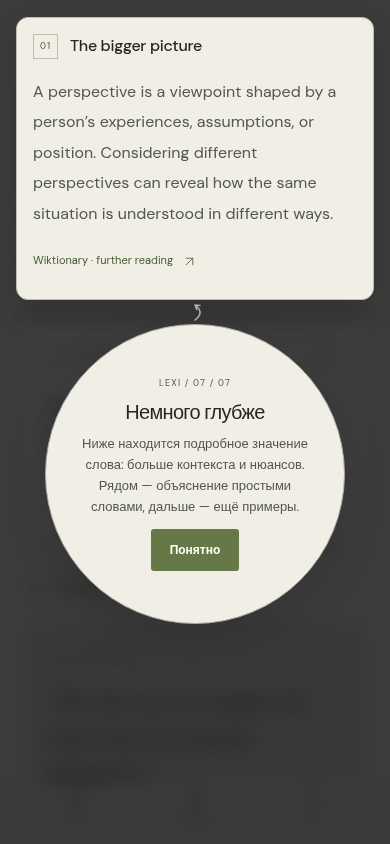
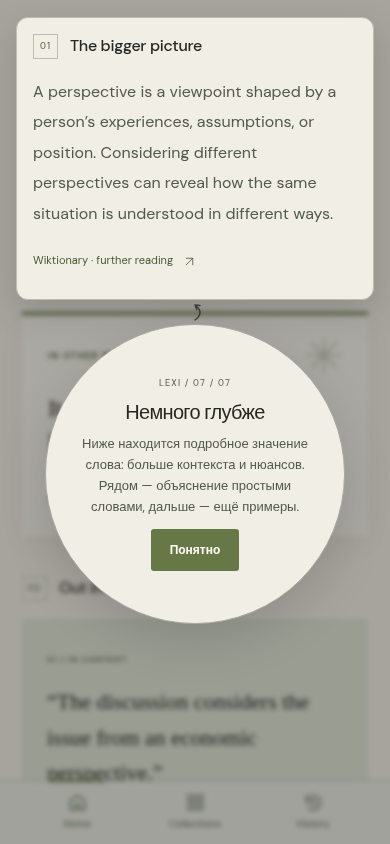
Ease the tutorial backdrop after the daily word

diff --git a/static/css/onboarding-guide.css b/static/css/onboarding-guide.css
@@ -48,10 +48,13 @@
 .guide-settings-target{z-index:2;background:var(--surface);color:var(--text);border:1px solid var(--text);border-radius:50%;box-shadow:0 0 0 8px color-mix(in srgb,var(--bg) 75%,transparent)}
 .guide-settings-target:hover{transform:none;background:var(--panel)}
 [data-theme=studio] .guide-circle{background:var(--paper)}
-.settings-guide-dialog.is-reading-guide::backdrop{backdrop-filter:blur(10px)}
+.settings-guide-dialog.is-reading-guide::backdrop{background:#07080b4d;backdrop-filter:blur(2.5px);transition:backdrop-filter 900ms cubic-bezier(.42,0,.58,1),background-color 900ms cubic-bezier(.42,0,.58,1)}
 .is-reading-guide .settings-guide-circle{z-index:3;gap:10px;padding:26px}
 .is-reading-guide .guide-settings-arrow{z-index:2;pointer-events:none}
 .is-reading-guide .guide-settings-arrow path{stroke:#eef0ec;opacity:.75;filter:none}
+[data-theme=studio] .is-reading-guide .guide-settings-arrow path{stroke:var(--text)}
+.reduce-motion .settings-guide-dialog.is-reading-guide::backdrop{transition:none}
+@media(prefers-reduced-motion:reduce){.settings-guide-dialog.is-reading-guide::backdrop{transition:none}}
 .guide-content-spotlight{position:fixed;z-index:2;padding:16px;border:1px solid var(--border);border-radius:12px;background:var(--surface);color:var(--text);box-shadow:0 12px 36px #0002;overflow:auto;overscroll-behavior:contain;scrollbar-width:thin}
 .guide-content-spotlight>:first-child{margin:0;opacity:1;transform:none;animation:none;transition:none}
 .guide-content-spotlight .synonym{display:inline-flex;align-items:center;gap:12px}

diff --git a/static/sw.js b/static/sw.js
@@ -1,5 +1,5 @@
 // Bump this version after changing the app shell or vocabulary schema.
-const CACHE = 'lexi-shell-v21';
+const CACHE = 'lexi-shell-v22';
 const SHELL = [
   '/', '/manifest.webmanifest', '/static/css/style.css', '/static/css/experience.css', '/static/css/account.css', '/static/css/entry.css', '/static/js/app.js',
   '/static/js/theme-init.js', '/static/js/selection.js', '/static/js/storage.js',

diff --git a/docs/VALIDATION.md b/docs/VALIDATION.md
@@ -13,6 +13,7 @@
 - **11 проверок продолжения «Слово дня» (22 октября):** восстановление непосредственно на новом шаге; тот же язык и слово на другом устройстве; завершение на другом устройстве сохраняется; раннее нажатие «Далее» во время появления подсказки настроек не меняет мгновенно координаты, размер и непрозрачность круга, создаётся один круг и одна подсветка; перевёрнутая карточка не раскрывает ответ, явное двойное нажатие открывает слово и продолжает объяснение; круг помещается на 320 × 568 px; потеря сессии удаляет подсветку и закрывает диалог; ошибок JavaScript нет. Основные 161 проверка также подтверждают затухание у настроек, появление круга под словом, свечение и размытие вокруг, размеры 320/390/768/1440 px, офлайн-перезагрузку на шаге слова без повторной истории, переход через настоящую шестерёнку и очистку подсветки после завершения. Метаданные `word` проверены в 53 unit/API-тестах, включая сохранение при записи старого клиента и запрет шага без языка/завершённого выбора. Повторены 68 базовых сценариев и все 29 сценариев гостя.
 - **Приглушённая подсветка слова (22 октября):** насыщенный зелёный ореол заменён одним слабым свечением и нейтральным светлым текстом. В Chromium повторно просмотрены переход от настроек к слову и снимки Studio на 1440 × 1000 и 390 × 844 px; слово читается, круг остаётся под ним, ошибок JavaScript при переходе нет. Снимки и анимационный пример обновлены; полные наборы тестов для этой правки CSS повторно не запускались.
 - **130 браузерных проверок объяснения слова (22 октября):** краткое значение → синонимы → пример → настоящая кнопка сохранения → настоящий Saved → Home и плавная прокрутка к полному значению. Русский/Studio, казахский/Noir и английский/Experimental; на каждом шаге проверены 320/390/768/1440 px, круглая форма, отсутствие наложений и переполнения. Тексты выделений совпадают с текущим словом. Проверены сохранение ровно один раз при повторных нажатиях, видимая нейтральная цель полёта закладки, уже сохранённое слово, восстановление Saved без повторной демонстрации, офлайн-перезагрузка, другое устройство, отсутствие дублей истории, завершение без повторного запуска, скрытая карточка и удаление подсветки при истечении сессии. При reduced motion полёт и прокрутка отключены; длинная дефиниция на 320 × 568 px прокручивается с клавиатуры. Дополнительно проверен фокус на заголовке полного объяснения после закрытия. Выполнены 36 axe-проверок шести новых шагов на трёх языках/темах и 320/1440 px — автоматических нарушений WCAG 2 A/AA и 2.1 AA не обнаружено. Повторены 53 unit/API-теста с валидацией новых шагов, 161 проверка первого инструктажа, 12 проверок границ шага слова (включая перерисовку во время затухания), 69 базовых сценариев, 71 сценарий аккаунтов и 29 сценариев гостя. Примеры анимации и снимки компьютера/телефона обновлены.
+- **Мягкий фон после слова дня (22 октября):** размытие ослабевает с 10 до 2,5 px, затемнение — с 77% до 30%, переход занимает 900 мс. Покадровая проверка Chromium подтвердила постепенное уменьшение без скачка (17 промежуточных кадров). Просмотрены три темы на 1440 × 1000 и 390 × 844 px: контекст страницы виден, блок и круг остаются непрозрачными, стрелка Studio читается на светлом фоне. Проверены системное и встроенное уменьшение движения — фон меняется сразу; ошибок JavaScript нет. Полное анимационное превью и снимки следующих шагов обновлены. Полные наборы функциональных тестов для этой правки CSS повторно не запускались.
 - **19 929 сравнений Python/JavaScript** для выбора слова на разных датах и наборах интересов.
 - **600 сравнений расписания** в 8 часовых поясах, включая пропущенный/повторяющийся час, получасовой переход и зоны со смещением на 45 минут.
 - **Доступность нового стартового экрана:** axe-core, 24 сочетания регистрации/входа, трех оформлений стартового экрана и ширины 320/390/768/1440 px; нарушений WCAG 2 A/AA и 2.1 AA не обнаружено. Форма имеет непрозрачный фон, декоративные слова исключены из дерева доступности; анимацию можно остановить.

diff --git a/docs/ONBOARDING.md b/docs/ONBOARDING.md
@@ -6,7 +6,7 @@
 2. **Коллекции.** Та же подсказка плавно перемещается вправо, коллекции становятся чёткими и доступными. Тонкая стрелка выходит снизу круга, делает свободную петлю, похожую на шнур, и указывает на карточки коллекций. На компьютере она занимает свободную колонку под кругом; на телефоне для неё оставлен промежуток перед заголовком коллекций. Раздел времени размывается. Можно выбрать несколько коллекций; без выбора продолжение недоступно. «Назад» сохраняет уже введённые значения.
 3. **Настройки.** Панель закрывается. Круглая подсказка со стрелкой указывает на настоящую кнопку шестерёнки: время и коллекции можно изменить позже. «Далее» или Escape плавно переводит к слову дня. Сама шестерёнка по-прежнему открывает Settings; объяснение слова остаётся незавершённым и появляется после возвращения на Home.
 4. **Слово дня.** Круг у шестерёнки затухает за 360 мс и плавно появляется под словом за 520 мс. Само английское слово мягко выделяется лёгким свечением и проявляется за 650 мс; остальной экран размыт. Объяснение на выбранном языке: «Это слово дня. Оно меняется каждый день в выбранное вами время». «Далее» переводит к значению слова.
-5. **Краткое значение, синонимы, пример.** Три последовательные подсказки выделяют настоящие тексты текущего слова, остальные части экрана остаются размытыми. Тонкая стрелка связывает круг с выделенным блоком. Между шагами подсказка затухает за 240 мс, страница мягко прокручивается за 850 мс, новый блок и круг проявляются за 500 мс. На телефоне блок находится над кругом; длинный текст можно прокрутить внутри выделения, в том числе с клавиатуры.
+5. **Краткое значение, синонимы, пример.** После слова дня размытие за 900 мс плавно ослабевает с 10 до 2,5 px, а затемнение — с 77% до 30%. Этот лёгкий фон сохраняется до конца инструктажа: видны расположение элементов, полёт закладки и прокрутка, а чёткие непрозрачные блок и круг остаются в фокусе. Три последовательные подсказки выделяют настоящие тексты текущего слова. Тонкая стрелка связывает круг с выделенным блоком; в Studio она тёмная, чтобы оставаться видимой на светлом фоне. Между шагами подсказка затухает за 240 мс, страница мягко прокручивается за 850 мс, новый блок и круг проявляются за 500 мс. На телефоне блок находится над кругом; длинный текст можно прокрутить внутри выделения, в том числе с клавиатуры. При reduced motion фон сразу становится лёгким, без перехода.
 6. **Сохранение и Saved.** Подсказка показывает кнопку Save word и заранее объясняет демонстрацию. По «Показать сохранение» LEXI действительно сохраняет текущее слово, меняет состояние кнопки и за 800 мс направляет нейтральную анимированную закладку к Saved. Затем открывает настоящий раздел Saved с выделенной карточкой этого слова. Уже сохранённое слово не удаляется и не дублируется, повторные нажатия во время перехода заблокированы. Подсказка остаётся до нажатия «Вернуться к слову», чтобы пользователь успел её прочитать. Слово остаётся в аккаунте после демонстрации.
 7. **Подробное значение.** LEXI возвращается на Home, на короткое время показывает начало страницы и плавно прокручивает вниз к полному объяснению. Следующий круг рассказывает о подробном значении, простом объяснении рядом и примерах ниже. «Понятно» или Escape завершает инструктаж и убирает выделение.
 
